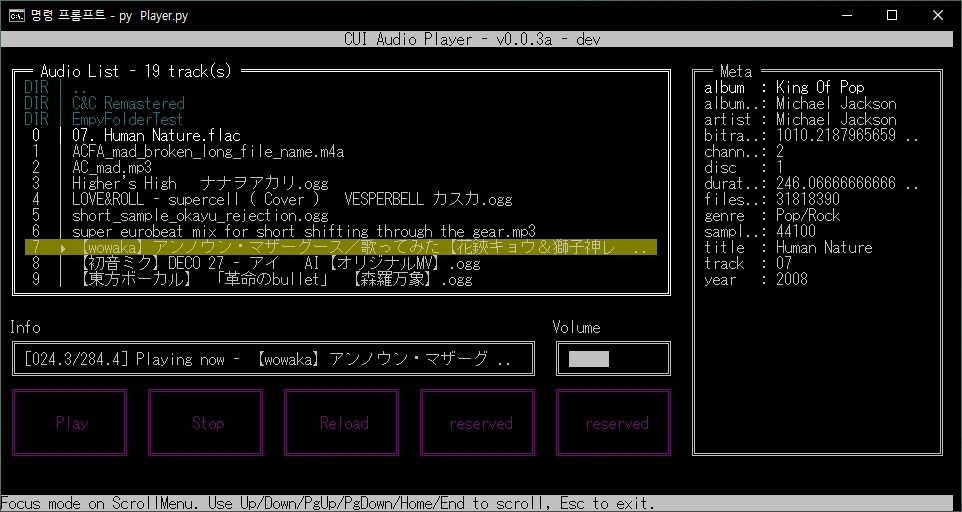
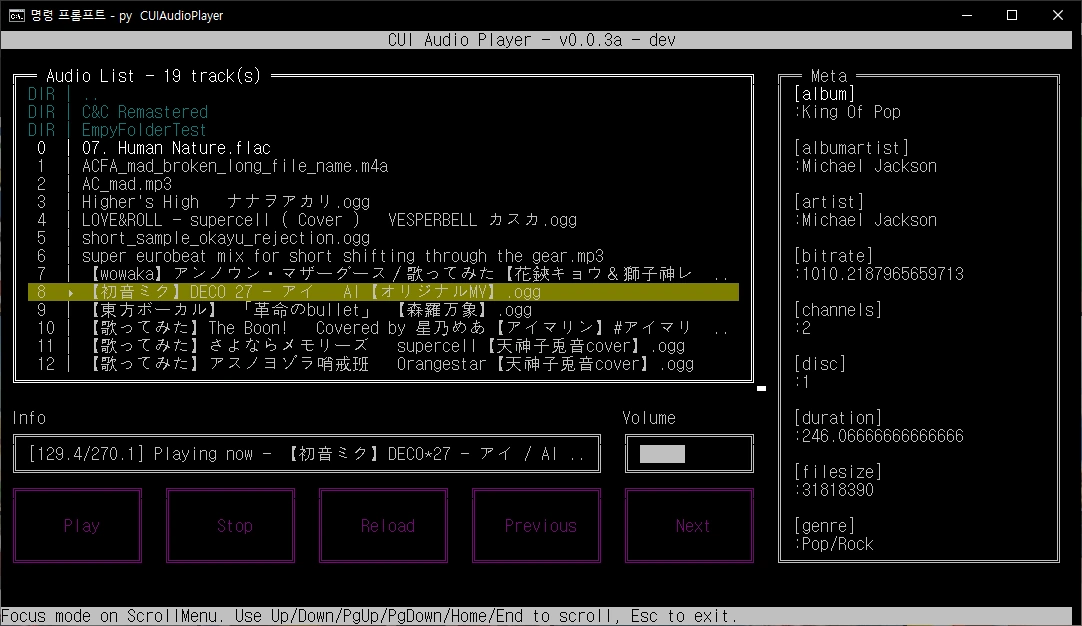
Fixed pause-resumed playback not playing next track - no previous track yet. Added next track button. Temporary change on how metadata is shown.

Changed region(s): [[0.0, 0.0, 1.0, 1.0], [0.0, 0.9688, 0.7796, 1.0], [0.8108, 0.5312, 0.842, 0.5625]]

diff --git a/Player.py b/Player.py
@@ -26,8 +26,6 @@ except ImportError:
 assert CompatibilityPatch
 
 
-# THIS WILL NOT RUN PROPERLY ON WINDOWS TERMINAL! Currently Developing on CMD!
-# Assuming relative location
 AUDIO_FOLDER = "audio_files"
 AUDIO_TYPES = ".ogg", ".mp3", ".m4a", ".flac"
 VERSION_TAG = "0.0.3a - dev"
@@ -64,18 +62,23 @@ def add_callback_patch(widget_: py_cui.widgets.Widget, callback: Callable) -> No
         setattr(widget_, target, patch_factory(getattr(widget_, target)))
 
 
-def audio_list_str_gen(dict_: Mapping, ellipsis_: str = "..", offset: int = 1) -> Generator[str, None, None]:
+def meta_list_str_gen(dict_: Mapping, ellipsis_: str = "..", offset: int = 1) -> Generator[str, None, None]:
     """
     Cuts text in avg. of given dict_'s keys.
     :param dict_: Mapping containing metadata.
     :param ellipsis_: Suffix to use as ellipsis, when text is longer than avg.
     :param offset: Offset to add / reduce max displayed length from avg.
     """
-    key_avg = (sum(map(len, dict_.keys())) // len(dict_)) + offset
+    # key_avg = (sum(map(len, dict_.keys())) // len(dict_)) + offset
+    #
+    # for key, val in ((k, v) for k, v in dict_.items() if v):
+    #     formatted = key if len(key) < key_avg else key[:key_avg - len(ellipsis_)] + ellipsis_
+    #     yield f"{formatted.ljust(key_avg)}: {val}"
 
     for key, val in ((k, v) for k, v in dict_.items() if v):
-        formatted = key if len(key) < key_avg else key[:key_avg - len(ellipsis_)] + ellipsis_
-        yield f"{formatted.ljust(key_avg)}: {val}"
+        yield f"[{key}]"
+        yield f":{val}"
+        yield " "
 
 
 def pad_actual_length(source: str, pad: str = "\u200b") -> Tuple[str, str]:
@@ -111,7 +114,6 @@ def fit_to_actual_width(text: str, length_lim: int) -> str:
 
 
 # ------------------------------------------------------------------
-# UI definition, using py-cui examples. Would've been nice if it followed PEP8.
 
 
 class AudioPlayer:
@@ -126,30 +128,31 @@ class AudioPlayer:
     def __init__(self, root: py_cui.PyCUI):
         self.root_ = root
 
+        # -- UI definitions
         # row-idx then col-idx, it's reversed x,y - reminder to self!
         self.audio_list = self.root_.add_scroll_menu("Files", 0, 0, column_span=5, row_span=3)
         self.meta_list = self.root_.add_scroll_menu("Meta", 0, 5, column_span=2, row_span=5)
 
         self.info_box = self.root_.add_text_box("Info", 3, 0, column_span=4)
         self.volume_slider = self.root_.add_slider("Volume", 3, 4, column_span=1, min_val=0, max_val=8, init_val=4)
-        self.handle_volume_patch()
-        self.volume_slider.toggle_border()
-        self.volume_slider.toggle_title()
-        self.volume_slider.toggle_value()
-        self.volume_slider.set_bar_char("█")
 
         self.play_btn = self.root_.add_button("Play", 4, 0, command=self.play_cb_space_bar)
         self.stop_btn = self.root_.add_button("Stop", 4, 1, command=self.stop_cb)
         self.reload_btn = self.root_.add_button("Reload", 4, 2, command=self.reload_cb)
 
-        self.reserved_1 = self.root_.add_button("reserved", 4, 3)
-        self.reserved_2 = self.root_.add_button("reserved", 4, 4)
+        self.reserved_1 = self.root_.add_button("Previous", 4, 3)
+        self.reserved_2 = self.root_.add_button("Next", 4, 4, command=self.on_next_track_click)
 
         # just for ease of clearing
         self.clear_target = [self.audio_list, self.meta_list, self.info_box]
 
-        # add callback to update metadata on every redraw.
+        # -- UI setup
         add_callback_patch(self.audio_list, self.on_file_click)
+        self.handle_volume_patch()
+        self.volume_slider.toggle_border()
+        self.volume_slider.toggle_title()
+        self.volume_slider.toggle_value()
+        self.volume_slider.set_bar_char("█")
 
         # Key binds
         self.audio_list.add_key_command(py_cui.keys.KEY_ENTER, self.play_cb_enter)
@@ -178,6 +181,12 @@ class AudioPlayer:
             self.update_meta(clear=True)
         else:
             self.update_meta()
+
+    def on_next_track_click(self):
+        self.stream.stop_stream(set_flag=False)
+
+    def on_previous_track_click(self):
+        pass
 
     # Media control callback definitions -----------------------
     # TODO: fix malfunctioning play next when force-starting different tracks mid-playing.
@@ -215,6 +224,7 @@ class AudioPlayer:
 
     def play_stream(self, audio_idx=None) -> int:
         """Load audio and starts audio stream. Returns True if successful."""
+
         if not audio_idx:
             audio_idx = self.selected_idx
 
@@ -247,7 +257,6 @@ class AudioPlayer:
             self.write_info("")
 
     def refresh_list(self, search_files=True):
-        # save current view
         self.audio_list.clear()
 
         if search_files:
@@ -288,7 +297,7 @@ class AudioPlayer:
 
         # Extract metadata
         ordered = extract_metadata(self.selected_track)
-        self.write_meta_list(audio_list_str_gen(ordered))
+        self.write_meta_list(meta_list_str_gen(ordered))
 
     def handle_volume_patch(self):
         original = self.volume_slider._handle_key_press

diff --git a/SDManager/StreamManager.py b/SDManager/StreamManager.py
@@ -33,15 +33,15 @@ class StreamManager(StreamManagerABC):
         return self.stream_state.load_stream(self, audio_location)
 
     def start_stream(self):
-        self. stop_flag = False
+        self.stop_flag = False
         return self.stream_state.start_stream(self)
 
-    def stop_stream(self):
-        self.stop_flag = True
+    def stop_stream(self, set_flag=True):
+        self.stop_flag = False if set_flag else self.stop_flag
         return self.stream_state.stop_stream(self)
 
     def pause_stream(self):
-        self.stop_flag = True
+        self.stop_flag = not self.stop_flag
         return self.stream_state.pause_stream(self)
 
     def volume_up(self):

diff --git a/SDManager/Typehint.py b/SDManager/Typehint.py
@@ -67,7 +67,7 @@ class StreamManagerABC(abc.ABC):
     def start_stream(self) -> None:
         pass
 
-    def stop_stream(self) -> None:
+    def stop_stream(self, set_flag=True) -> None:
         pass
 
     def pause_stream(self) -> None:
